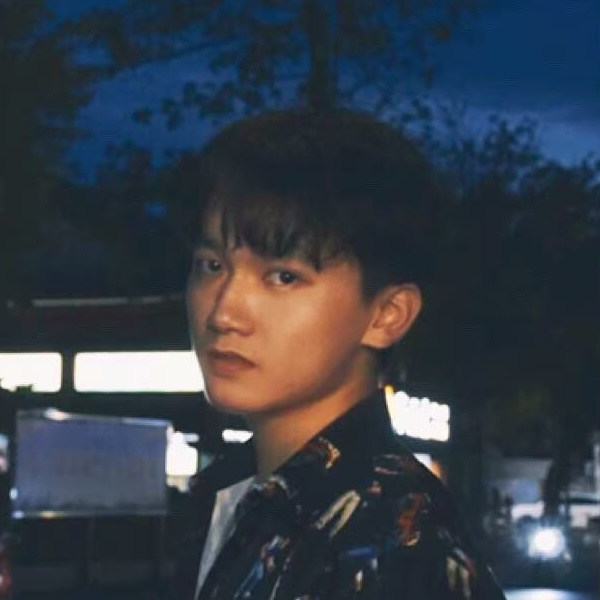
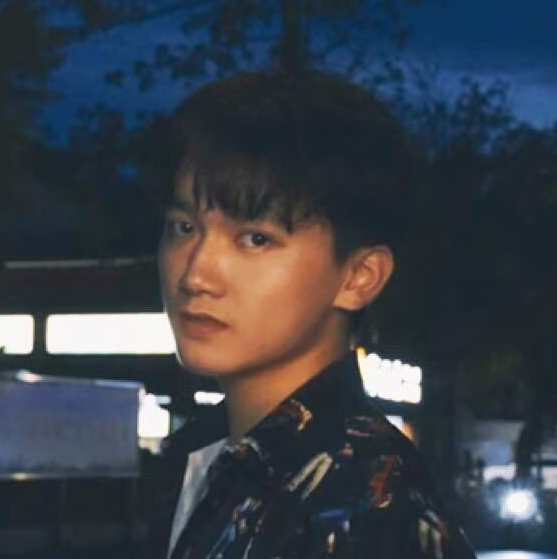
Update committee member spacing

diff --git a/_includes/committee-member.html b/_includes/committee-member.html
@@ -8,7 +8,7 @@
             {% if include.site == null %}{{ include.name }}{% else %}<a href="{{ include.site }}">{{ include.name }}</a>{% endif %}
             {% if include.extrainfo != null %}<em>{{ include.extrainfo }}</em>{% endif %}
           </h3>
-            <p class="author__bio" itemprop="description">{{ include.institution }}</p>
+            <p class="author__bio" itemprop="description" style="margin-bottom: 12px;">{{ include.institution }}</p>
             <p class="author__bio" itemprop="description">{{ include.email }}</p>
         </div>
     </div>
